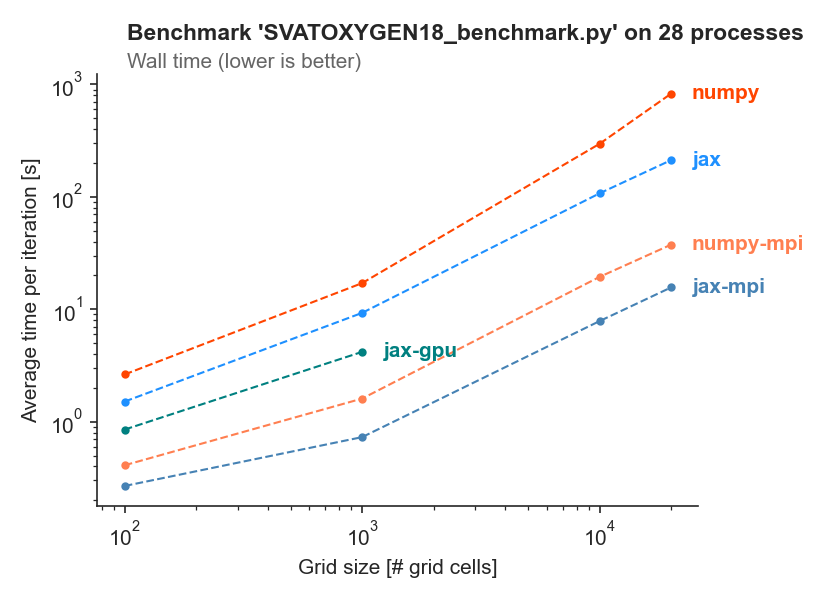
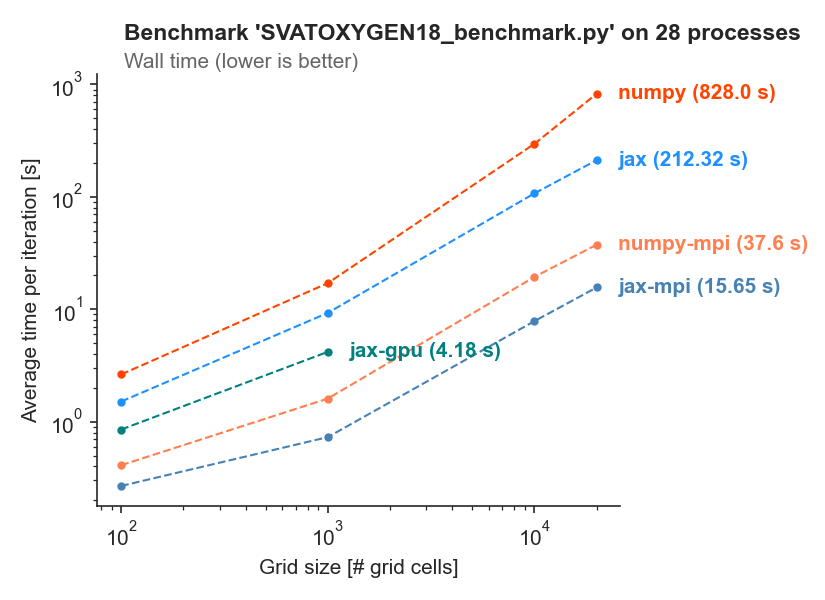
modified post processing

diff --git a/doc/plot_benchmarks.py b/doc/plot_benchmarks.py
@@ -123,8 +123,18 @@ def plot_benchmarks(infiles, xaxis, norm_component):
             tp = max(tp, last_text_pos + 20)
             _, y = trans.inverted().transform((0, tp))
 
+            if norm_component:
+                speedup = np.round(y, 2)
+                if component == 'numpy':
+                    component_label = component
+                else:
+                    component_label = component + f' ({speedup}x)'
+            else:
+                time_last = np.round(y, 2)
+                component_label = component + f' ({time_last} s)'
+
             plt.annotate(
-                component,
+                component_label,
                 (x, y),
                 xytext=(10, 0),
                 textcoords="offset points",
@@ -145,6 +155,7 @@ def plot_benchmarks(infiles, xaxis, norm_component):
             suffix = "_scaling"
 
         fig.savefig(f"{benchmark.split('_')[0]}_{xaxis}{suffix}.png")
+        fig.savefig(f"{benchmark.split('_')[0]}_{xaxis}{suffix}.pdf")
         plt.close(fig)
 
 
